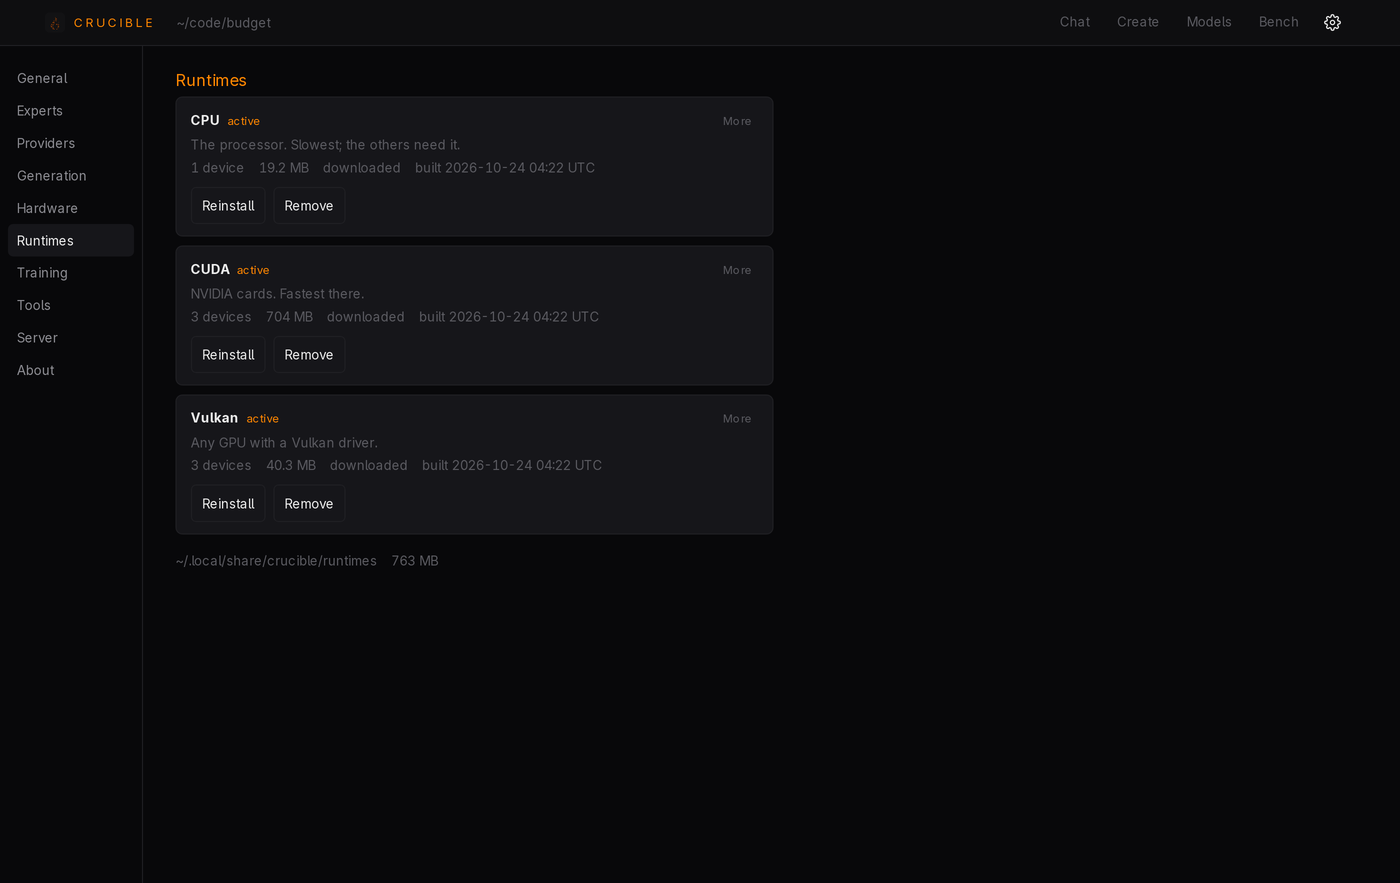
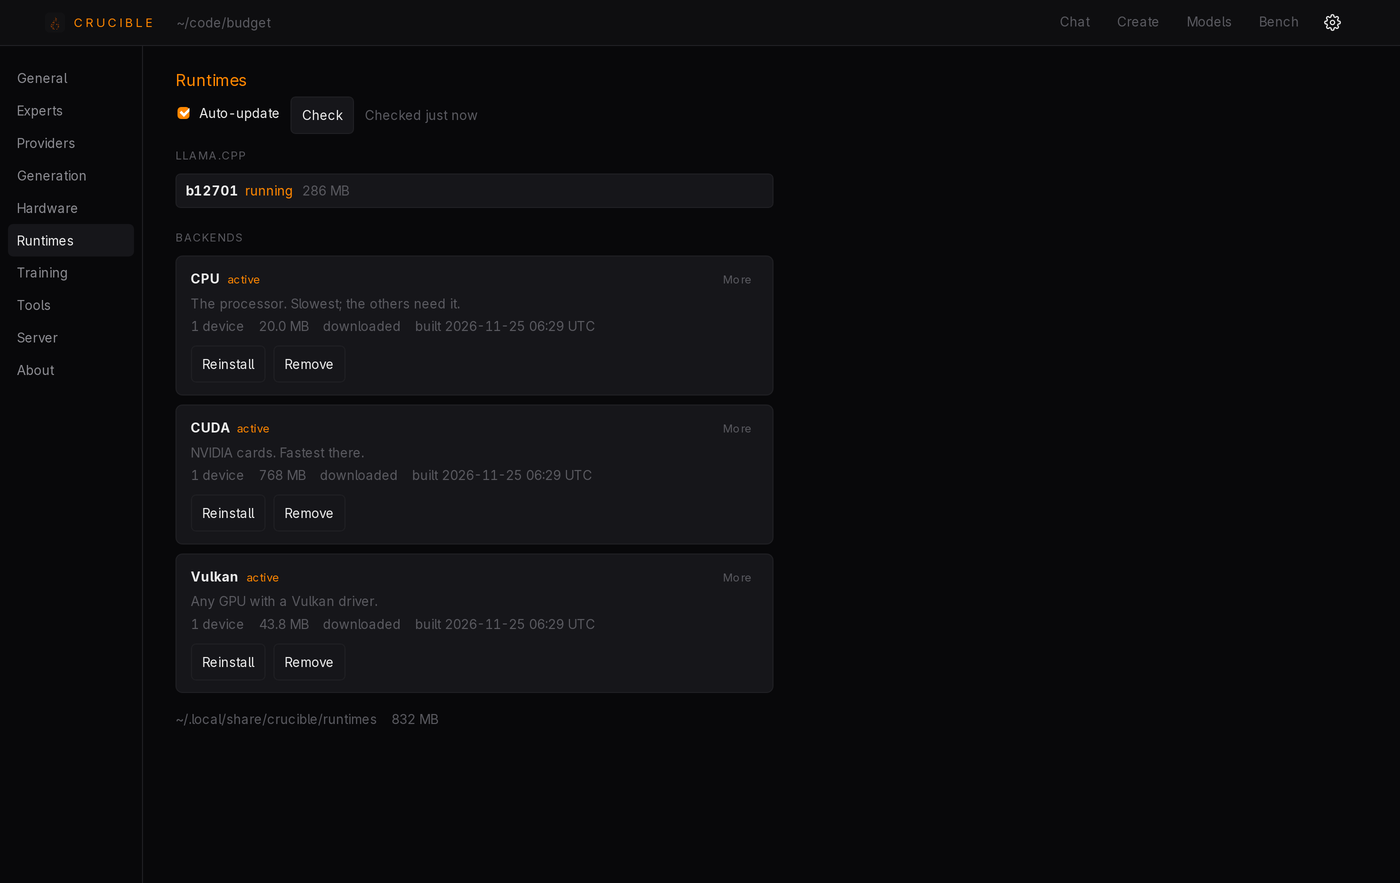
A llama.cpp missing a backend in use says so and is not chosen on its own; the Runtimes folder is the one its size is of; the README's pictures and shelf retaken for 1.5.0's chat and the Runtimes page

diff --git a/ui/settings.js b/ui/settings.js
@@ -638,6 +638,7 @@ function llamaView() {
     const tags = [];
     if (v.running) tags.push('<span class="tag ok">running</span>');
     if (v.chosen && !v.running) tags.push('<span class="tag">next start</span>');
+    if (v.lacking && v.lacking.length) tags.push(`<span class="tag bad">no ${escape(v.lacking.join(', '))}</span>`);
     const size = v.installed || v.disk ? (v.disk ? bytes(v.disk) : '') : v.bytes ? bytes(v.bytes) : '';
     let buttons = '';
     if (fetching === v.tag) {

diff --git a/src/runtime/llama_versions.cpp b/src/runtime/llama_versions.cpp
@@ -99,6 +99,18 @@ std::uint64_t size_of(const std::filesystem::path& dir) {
     return total;
 }
 
+/// The backends in use now that `tag`'s folder has no module of.
+std::vector<std::string> lacking_for(std::string_view tag) {
+    std::vector<std::string>    lacking;
+    const std::filesystem::path theirs = paths::runtimes_dir() / "backends" / std::string(tag);
+    for (const RuntimeStatus& now : RuntimeRegistry::scan()) {
+        if (now.installed && RuntimeRegistry::modules_of(theirs, now.kind).empty()) {
+            lacking.emplace_back(backend_info(now.kind).name);
+        }
+    }
+    return lacking;
+}
+
 void tell(const std::function<void(std::string)>& say, std::string what) {
     if (say) {
         say(std::move(what));
@@ -177,6 +189,9 @@ std::vector<Version> list(std::string_view releases_json) {
     }
     for (auto& [tag, version] : found) {
         version.disk = size_of(core_dir(tag)) + size_of(paths::runtimes_dir() / "backends" / tag);
+        if (version.installed && !version.running) {
+            version.lacking = lacking_for(tag);
+        }
     }
     // Chosen is what the next start loads: the bundled one when nothing is.
     const std::string chosen = chosen_tag();
@@ -431,8 +446,15 @@ bool start_fetch(std::string tag, bool automatic) {
             const std::lock_guard<std::mutex> lock(background().mutex);
             background().fetch.said = std::move(step);
         });
+        // The daily update does not move anybody off a backend they use: a
+        // version without CUDA, say, waits until it has it.
         if (ok && automatic) {
-            ok = choose(tag, error);
+            if (const std::vector<std::string> lacking = lacking_for(tag); !lacking.empty()) {
+                ok    = false;
+                error = "llama.cpp " + tag + " has no " + lacking.front() + " yet";
+            } else {
+                ok = choose(tag, error);
+            }
         }
         const std::lock_guard<std::mutex> lock(background().mutex);
         Fetching& fetch = background().fetch;

diff --git a/src/api/methods_install.cpp b/src/api/methods_install.cpp
@@ -122,7 +122,9 @@ Reply runtimes(const json&, const Scene&) {
     return good(json{{"runtimes",  std::move(listed)},
                      // For reading, not for opening: written with ~ for the
                      // home directory, as the top bar writes the project.
-                     {"directory", format::short_path(paths::backends_dir())},
+                     // The folder they are all in: this llama.cpp's backends,
+                     // NVIDIA's libraries beside them, and other llama.cpps.
+                     {"directory", format::short_path(paths::runtimes_dir())},
                      {"bytes",     total},
                      // False for a build with its backend compiled in, where
                      // there is nothing to install and the page says so.
@@ -140,7 +142,8 @@ json llama_listing(bool automatic) {
     for (const llama_versions::Version& one : llama_versions::list(llama_versions::releases())) {
         versions.push_back(json{{"tag", one.tag}, {"running", one.running}, {"bundled", one.bundled},
                                 {"chosen", one.chosen}, {"installed", one.installed},
-                                {"published", !one.url.empty()}, {"bytes", one.bytes}, {"disk", one.disk}});
+                                {"published", !one.url.empty()}, {"bytes", one.bytes}, {"disk", one.disk},
+                                {"lacking", one.lacking}});
     }
     const llama_versions::Fetching fetch = llama_versions::fetching();
     const char*                    passed = std::getenv("CRUCIBLE_RUNTIME_PASSED_OVER");

diff --git a/tests/test_ui_js.cpp b/tests/test_ui_js.cpp
@@ -4526,7 +4526,7 @@ TEST(the_llama_cpp_versions_are_listed_with_what_each_can_do) {
         state.llama = { running: 'b12701', newer: 'b13100', fetching: '', said: '', error: '', passed_over: '',
           checked_at: 0, check_error: '', versions: [
             { tag: 'b13100', published: true, installed: false, bytes: 18000000, disk: 0 },
-            { tag: 'b13000', installed: true, chosen: true, disk: 30000000 },
+            { tag: 'b13000', installed: true, chosen: true, disk: 30000000, lacking: ['CUDA'] },
             { tag: 'b12900', installed: false, disk: 4000000 },
             { tag: 'b12701', running: true, bundled: true, installed: true, disk: 0 },
             { tag: 'b12600', published: true, installed: false, bytes: 18000000, disk: 0 } ] };
@@ -4537,6 +4537,8 @@ TEST(the_llama_cpp_versions_are_listed_with_what_each_can_do) {
     CHECK(listed.find("data-act=\"llama-install\" data-tag=\"b13100\"") != std::string::npos);
     CHECK(listed.find("data-act=\"llama-use\" data-tag=\"b13000\">Restart") != std::string::npos);
     CHECK(listed.find("next start") != std::string::npos);
+    // A backend in use now that it has none of, said on its row.
+    CHECK(listed.find("no CUDA") != std::string::npos);
     CHECK(listed.find("data-act=\"llama-delete\" data-tag=\"b12900\"") != std::string::npos);
     // The running one cannot be deleted, nor the one the next start loads.
     CHECK(listed.find("data-act=\"llama-delete\" data-tag=\"b12701\"") == std::string::npos);

diff --git a/tests/test_runtime.cpp b/tests/test_runtime.cpp
@@ -1284,3 +1284,28 @@ TEST(what_pip_would_install_is_read_from_its_report) {
                                 warned, none_lm));
     CHECK_EQ(warned, std::string("0.30.0"));
 }
+
+TEST(a_llama_cpp_without_a_backend_in_use_says_so_and_is_not_chosen_on_its_own) {
+    TempDir              temp;
+    const ScopedDataHome home(temp.path());
+    // The processor's backend in use now, and a newer llama.cpp with none.
+    const std::string cpu = std::string(crucible::module_prefix()) + "cpu-x64" + std::string(crucible::module_suffix());
+    std::filesystem::create_directories(paths::backends_dir());
+    std::ofstream(paths::backends_dir() / cpu) << "x";
+    std::filesystem::create_directories(llama_versions::core_dir("b99998"));
+    std::ofstream(llama_versions::core_dir("b99998") / "runtime.json") << "{}";
+    const auto lacking = [] {
+        for (const llama_versions::Version& v : llama_versions::list("[]")) {
+            if (v.tag == "b99998") {
+                return v.lacking;
+            }
+        }
+        return std::vector<std::string>{"not listed"};
+    };
+    CHECK_EQ(lacking().size(), std::size_t{1});
+    CHECK(!lacking().empty() && lacking().front() == std::string(backend_info(BackendKind::Cpu).name));
+    // With its own, nothing is lacking.
+    std::filesystem::create_directories(paths::runtimes_dir() / "backends" / "b99998");
+    std::ofstream(paths::runtimes_dir() / "backends" / "b99998" / cpu) << "x";
+    CHECK(lacking().empty());
+}

diff --git a/include/crucible/runtime/llama_versions.hpp b/include/crucible/runtime/llama_versions.hpp
@@ -37,6 +37,11 @@ struct Version {
     std::uint64_t bytes     = 0;     ///< its program's download, when published
     std::string   url;               ///< where that is, when published
     std::uint64_t disk      = 0;     ///< what it takes here: its program and backends
+
+    /// The backends in use now that this one has none of ("CUDA"): one not
+    /// published for it, which running on it would go without. Only for one
+    /// installed and not running.
+    std::vector<std::string> lacking;
 };
 
 /// The llama.cpp this runtime was built with.
@@ -96,7 +101,7 @@ Fetching fetching();
 
 /// Fetch `tag` on a thread of its own, from releases(). False when one is
 /// already being fetched. `automatic`, the daily update's: chosen for the
-/// next start once it is in.
+/// next start once it is in, unless it lacks a backend in use now.
 bool start_fetch(std::string tag, bool automatic = false);
 
 /// The newest published version newer than both the running and the chosen

diff --git a/tests/test_spelling.cpp b/tests/test_spelling.cpp
@@ -51,7 +51,9 @@ std::vector<std::filesystem::path> project_files() {
         const std::string name = path.filename().string();
         if (it->is_directory(ec)) {
             // .claude holds other checkouts of this tree, each tested in its own.
-            if (name == "build" || name == ".git" || name == "node_modules" || name == ".claude") {
+            // build-*/ beside it too: other builds, as .gitignore has them.
+            if (name == "build" || name == ".git" || name == "node_modules" || name == ".claude"
+                || (path.parent_path() == root && name.rfind("build-", 0) == 0)) {
                 it.disable_recursion_pending();
             }
             continue;

diff --git a/README.md b/README.md
@@ -20,7 +20,7 @@ add a key. Nothing leaves the machine until you say so.
 
 Website: https://msaunders.dev/crucible/
 
-![One prompt, two experts: Programming writes the page, Writing takes over for the note, and the page opens on the shelf](docs/images/ask.png)
+![One prompt: Programming writes the page and the note, and both land on the shelf](docs/images/ask.png)
 
 ___
 ## Install
@@ -125,8 +125,10 @@ ___
 
 ### Preview, tune, ship
 
-- **The shelf** on the right of the chat holds Code, Source and Preview. It
-  stays collapsed until a model writes something, then opens on it.
+- **The shelf** on the right of the chat lists what the experts made there,
+  and keeps it with the chat. Code is a **Build**, which opens with Code,
+  Source and Preview. Anything else, like a PDF or a spreadsheet, downloads
+  from its card.
 - **Preview** shows the page being made and reloads as an expert writes it.
 - **Pick an element**, then nudge padding, margin, fonts, colors and more.
   **Apply to source** hands the change to an expert, who writes it into the
@@ -253,10 +255,15 @@ Every model, local or not, gets the same tools in a trusted folder:
 - Runtimes (CPU, CUDA, Metal, Vulkan) install from Settings, downloaded or
   compiled. A downloaded CUDA runtime needs only the NVIDIA driver, 580 or
   newer.
+- **A newer llama.cpp without a new Crucible.** Settings, Runtimes lists the
+  versions published for this Crucible, and Use restarts on one. With
+  Auto-update on, Crucible fetches the newest once a day and runs on it from
+  the next start, the way LM Studio keeps its runtimes current.
+- MLX, on Apple silicon, updates from the same page.
 - Several GPUs work as one, split automatically, evenly, by priority, or kept
   to a single card.
 
-![Runtimes: CPU, CUDA and Vulkan, all three active](docs/images/runtimes.png)
+![Runtimes: llama.cpp's version, kept up to date, and CPU, CUDA and Vulkan, all three active](docs/images/runtimes.png)
 
 ### History
 
